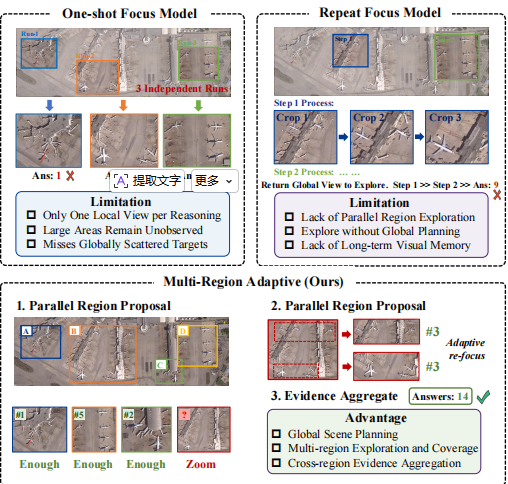
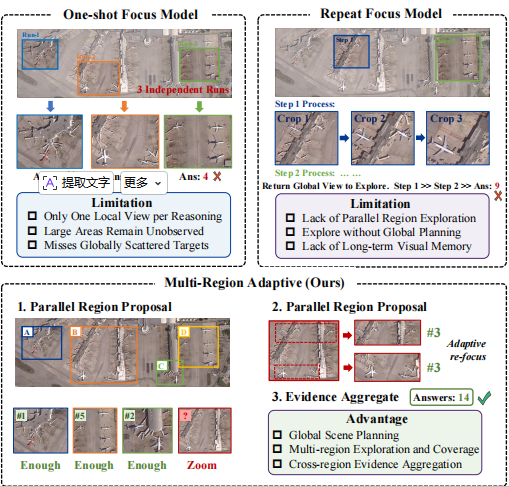
modify readme and index.html

diff --git a/README.md b/README.md
@@ -1,28 +1,35 @@
 <div align="center">
   <h1 style="font-size: 32px; font-weight: bold; margin: 0; display: inline-block;">
-    <img src="assets/logo_geovista.png" alt="logo" height="50" style="vertical-align: middle; margin-right: 8px; display: inline-block;">GeoVista: Visually Grounded Active Perception for Vision-Language Understanding of Ultra-High-Resolution Remote Sensing Images
+    <img src="assets/logo_geovista.png" alt="logo" height="50" style="vertical-align: middle; margin-right: 8px; display: inline-block;">
+    GeoVista: Visually Grounded Active Perception for Vision-Language Understanding of Ultra-High-Resolution Remote Sensing Images
   </h1>
   
   <br clear="all">
   <br>
 
-  <a href="https://arxiv.org/abs/2605.14475">
-    <img src="https://img.shields.io/badge/ArXiv-GeoVista-brown?logo=arxiv" alt="Paper">
-  </a>
-  <a href="https://huggingface.co/collections/ryan6073/apex-gro">
-    <img src="https://img.shields.io/badge/🤗 huggingface-Dataset-blue" alt="dataset">
-  </a>
-  <a href="https://huggingface.co/collections/ryan6073/geovista">
-    <img src="https://img.shields.io/badge/🤗 huggingface-Model-purple" alt="checkpoint">
-  </a>
-  <a href="https://ryan6073.github.io/GeoVista/">
-    <img src="https://img.shields.io/badge/-HomePage-black?logo=github" alt="homepage">
-  </a>
+  <!-- 四个徽章水平放置 -->
+  <p align="center">
+    <a href="https://arxiv.org/abs/2605.14475">
+      <img src="https://img.shields.io/badge/ArXiv-GeoVista-brown?logo=arxiv" alt="Paper">
+    </a>
+    <a href="https://huggingface.co/collections/ryan6073/apex-gro">
+      <img src="https://img.shields.io/badge/🤗 huggingface-Dataset-blue" alt="dataset">
+    </a>
+    <a href="https://huggingface.co/collections/ryan6073/geovista">
+      <img src="https://img.shields.io/badge/🤗 huggingface-Model-purple" alt="checkpoint">
+    </a>
+    <a href="https://ryan6073.github.io/GeoVista/">
+      <img src="https://img.shields.io/badge/-HomePage-black?logo=github" alt="homepage">
+    </a>
+  </p>
 </div>
 
 ---
 
-![OverView](assets/comparison_of_methods.jpg)
+<!-- OverView 图片居中 -->
+<p align="center">
+  <img src="assets/comparison_of_methods.jpg" alt="OverView">
+</p>
 
 ## Contents:
 
